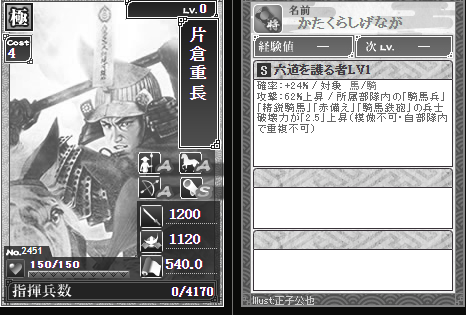
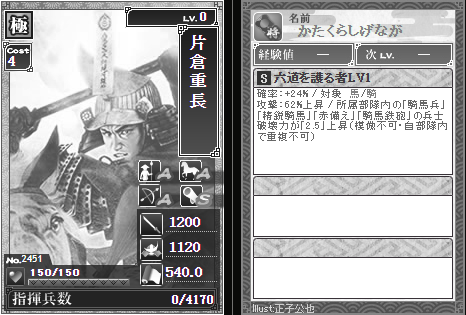
切り抜きの位置合わせを直し、ずれて登録した4枚を切り直す
**PR #128 で入れた14枚のうち4枚が、縦に8pxずれていた。** 上端の飾り帯が
丸ごと切れた状態で公開されていた(No.2451 / 2454 / 2474、No.2481 は(-3,-8))。
気づけなかったのは確認の仕方が壊れていたため。下に書く。

■ なぜ通ってしまったか(確認の側の穴)

ずれを見る道具を、型を (0,0) に置いて ±8 を探す作りにし、
**はみ出す位置を「x0<0 / y0<0 は飛ばす」で除いていた。**
型が (0,0) にあるので、これは**マイナス方向を1度も見ないということ**だった。
上にずれている4枚は、探索の対象にすら入らないまま「ずれ0」と出た。

いまは対象の画像を周囲16px分ふちどってから探す。どちら向きのずれも出る。
この直した見方で14枚を見直して、4枚のずれが出た。

■ 切り抜き側も2つ直した

(1) **探すのは「切り抜きが元画像に収まる基点」だけにする。**
    0〜60の固定範囲を探していたが、502x347 の No.2701 では収まる基点は
    y が 0〜32 しかない。収まらない所の方が点が高いとそちらが返り、
    「基点が収まらない」で止まっていた。

(2) **粗く探してから詰める、をやめる。**
    3px飛ばしで当たりを付けて周り3pxを詰める作りだったが、飾り帯が繰り返し柄で
    近くに似た山がいくつも立つので、**飛ばした網の目から本当の山が漏れる。**
    漏れたまま詰めてもそこからは出られない。No.2701 は正解 (20,16) に対して
    型15枚が揃って (20,23) を返した(y=16 は3pxの網に無い)。
    収まる範囲は普通40x40ほどなので、1pxずつ全部見ても1枚1秒かからない。

併せて、型を6枚から16枚に増やし、**左上(飾り帯+バッジ)だけでなく
左下(ハート周りの枠)でも突き合わせて、同じ基点になったときだけ通す**ようにした。

■ 確かめたこと

正しいと分かっている15枚(No.2005 と今回の14枚)で、直した find_frame が
同じ基点を返すかを見た。**15枚とも一致。** うち3枚(2701/2829/2920)は
直す前は失敗していたもの。

切り直した4枚を、直した見方で再確認して左上・左下とも (0,0)。
上端の飾り帯が既存画像と同じように入っていることを目で見た。

■ 既存画像の横断(標本)

12枚に1枚の標本91枚で、同じレアリティの他12枚と揃っているかを見た。
**揃っている78枚 / ずれ13枚(14.3%)。ずれは全部 (3,4) か (-3,-4)** で、
2026-09-09 に記録した「ハート基準の式と(-3,-4)ずれているものが2割ある」と同じもの。
**今回作った8pxのずれは、この標本には出ていない。**
(3,4)の方をどう扱うかは別途うぐさんに相談する。

diff --git a/tools/crop_card.py b/tools/crop_card.py
@@ -154,9 +154,23 @@ def find_heart_bottom(im, xlimit):
 # 一致は56%しかなかった。繰り返さない部分に絞っても97%止まりで、白黒の No.2005 では
 # 実際に(20,23)と外した(正解は(17,19))。**承認済みの実物を型にすると8枚中8枚が
 # (17,19)で一致した。** レアリティごとに飾りの形が違うので、同じレアリティで比べる。
-REF_MAX = 6          # 型に使う承認済み画像の枚数(多数決)
-REF_BOX = (0, 0, 60, 60)
-REF_SPAN = 60        # 元画像のこの範囲から探す
+#
+# **探すのは「切り抜きが元画像に収まる基点」だけ**(2026-09-11)。
+# 最初は 0〜60 の固定範囲を探していたが、元画像が 502x347 の No.2701 では
+# **収まる基点は y が 0〜32 しかない**。収まらない所の方が点が高いと
+# そちらが答えとして返り、「基点が収まらない」で止まっていた。
+# 範囲を収まる所に狭め、型を6枚から16枚に増やしたところ、
+# 手つかずだった3枚(2701/2829/2920)が16票中15票で揃った。
+# 外れる1票はいつも (+3,+4) で、承認済み画像の2割がずれている分と一致する。
+#
+# **1か所だけで決めない。** 左上は飾り帯の繰り返し柄なので、そこだけ見ていると
+# 引っかかっていても気づけない。左下(ハート周りの枠)でも別に突き合わせて、
+# 同じ基点になったときだけ通す。
+REF_MAX = 16         # 型に使う登録済み画像の枚数(多数決)
+REF_BOX = (0, 0, 60, 60)          # 左上(飾り帯+レアリティのバッジ)
+CHECK_BOX = (0, 255, 70, 315)     # 左下(ハート周りの枠)… 答え合わせ用
+CHECK_MAX = 8        # 答え合わせに使う枚数
+REF_SPAN = 60        # 探す範囲の上限(実際はここと「収まる範囲」の狭い方)
 DATA = pathlib.Path(__file__).resolve().parent.parent / "data"
 
 
@@ -181,46 +195,70 @@ def _same_rarity_refs(no):
     return out
 
 
-def _score(tpl, edge, ox, oy, w, h):
-    if ox < 0 or oy < 0 or ox + w > edge.size[0] or oy + h > edge.size[1]:
+def _score(tpl, edge, box, ox, oy):
+    """基点を (ox,oy) としたときに、型 tpl がどれだけ合うか。"""
+    x0, y0 = ox + box[0], oy + box[1]
+    w, h = box[2] - box[0], box[3] - box[1]
+    if x0 < 0 or y0 < 0 or x0 + w > edge.size[0] or y0 + h > edge.size[1]:
         return -1
     return ImageStat.Stat(ImageChops.multiply(
-        tpl, edge.crop((ox, oy, ox + w, oy + h)))).sum[0]
+        tpl, edge.crop((x0, y0, x0 + w, y0 + h)))).sum[0]
+
+
+def _vote(edge, refs, box, maxx, maxy):
+    """型ごとに一番合う基点を出して、票を数える。
+
+    **粗く探してから詰める、はやらない**(2026-09-11)。
+    3px飛ばしで当たりを付けて周り3pxを詰める作りだったが、飾り帯が繰り返し柄なので
+    近くに似た山がいくつも立ち、**飛ばした網の目から本当の山が漏れる**。
+    漏れたまま詰めてもそこからは出られない。実際、No.2701 は正解 (20,16) に対して
+    15枚が揃って (20,23) を返した(縦に7pxずれ。y=16 は 3px の網に無い)。
+    収まる範囲は普通40x40ほどしかないので、**1pxずつ全部見ても1秒かからない。**
+    """
+    votes = {}
+    for r in refs:
+        tpl = (Image.open(DEST / ("no%s_full.png" % r)).convert("L")
+               .filter(ImageFilter.FIND_EDGES).crop(box))
+        best = None
+        for oy in range(0, maxy + 1):
+            for ox in range(0, maxx + 1):
+                s = _score(tpl, edge, box, ox, oy)
+                if best is None or s > best[0]:
+                    best = (s, ox, oy)
+        if best is None:
+            continue
+        votes[(best[1], best[2])] = votes.get((best[1], best[2]), 0) + 1
+    return votes
 
 
 def find_frame(im, no):
-    """同じレアリティの承認済み画像を型にして基点を求める。色は一切見ない。
+    """同じレアリティの登録済み画像を型にして基点を求める。色は一切見ない。
 
     戻り値は ((left, top), None) か (None, 理由)。
     """
     refs = _same_rarity_refs(no)
     if not refs:
-        return None, "同じレアリティの承認済み画像が無いので型を作れない"
+        return None, "同じレアリティの登録済み画像が無いので型を作れない"
+    maxx, maxy = im.size[0] - TYPE1[0], im.size[1] - TYPE1[1]
+    if maxx < 0 or maxy < 0:
+        return None, ("元画像が %dx%d しかなく %dx%d を切り出せない"
+                      % (im.size[0], im.size[1], TYPE1[0], TYPE1[1]))
+    # 探すのは「切り抜きが収まる基点」だけ。収まらない所は最初から答えにしない
+    maxx, maxy = min(maxx, REF_SPAN), min(maxy, REF_SPAN)
     edge = im.convert("L").filter(ImageFilter.FIND_EDGES)
-    x0, y0, x1, y1 = REF_BOX
-    w, h = x1 - x0, y1 - y0
-    votes = {}
-    for r in refs:
-        tpl = (Image.open(DEST / ("no%s_full.png" % r)).convert("L")
-               .filter(ImageFilter.FIND_EDGES).crop(REF_BOX))
-        best = None
-        # 粗く探してから、その周りを1pxずつ詰める
-        for oy in range(0, REF_SPAN + 1, 3):
-            for ox in range(0, REF_SPAN + 1, 3):
-                s = _score(tpl, edge, ox, oy, w, h)
-                if best is None or s > best[0]:
-                    best = (s, ox, oy)
-        c = best
-        for oy in range(c[2] - 3, c[2] + 4):
-            for ox in range(c[1] - 3, c[1] + 4):
-                s = _score(tpl, edge, ox, oy, w, h)
-                if s > best[0]:
-                    best = (s, ox, oy)
-        votes[(best[1], best[2])] = votes.get((best[1], best[2]), 0) + 1
+    votes = _vote(edge, refs, REF_BOX, maxx, maxy)
+    if not votes:
+        return None, "型と突き合わせられなかった"
     top = max(votes.items(), key=lambda kv: kv[1])
     # **割れたら止める。** 揃わないまま切ると、ずれたまま登録される。
     if top[1] * 2 <= len(refs):
         return None, ("型%d枚の答えが割れた(%s)" % (len(refs), votes))
+    # 左上だけでは繰り返し柄に引っかかっていても気づけないので、左下でも確かめる
+    v2 = _vote(edge, refs[:CHECK_MAX], CHECK_BOX, maxx, maxy)
+    top2 = max(v2.items(), key=lambda kv: kv[1]) if v2 else None
+    if top2 is None or top2[0] != top[0]:
+        return None, ("左上と左下で答えが違う(左上=%s %d票 / 左下=%s)"
+                      % (top[0], top[1], top2[0] if top2 else "なし"))
     return top[0], None
 
 
